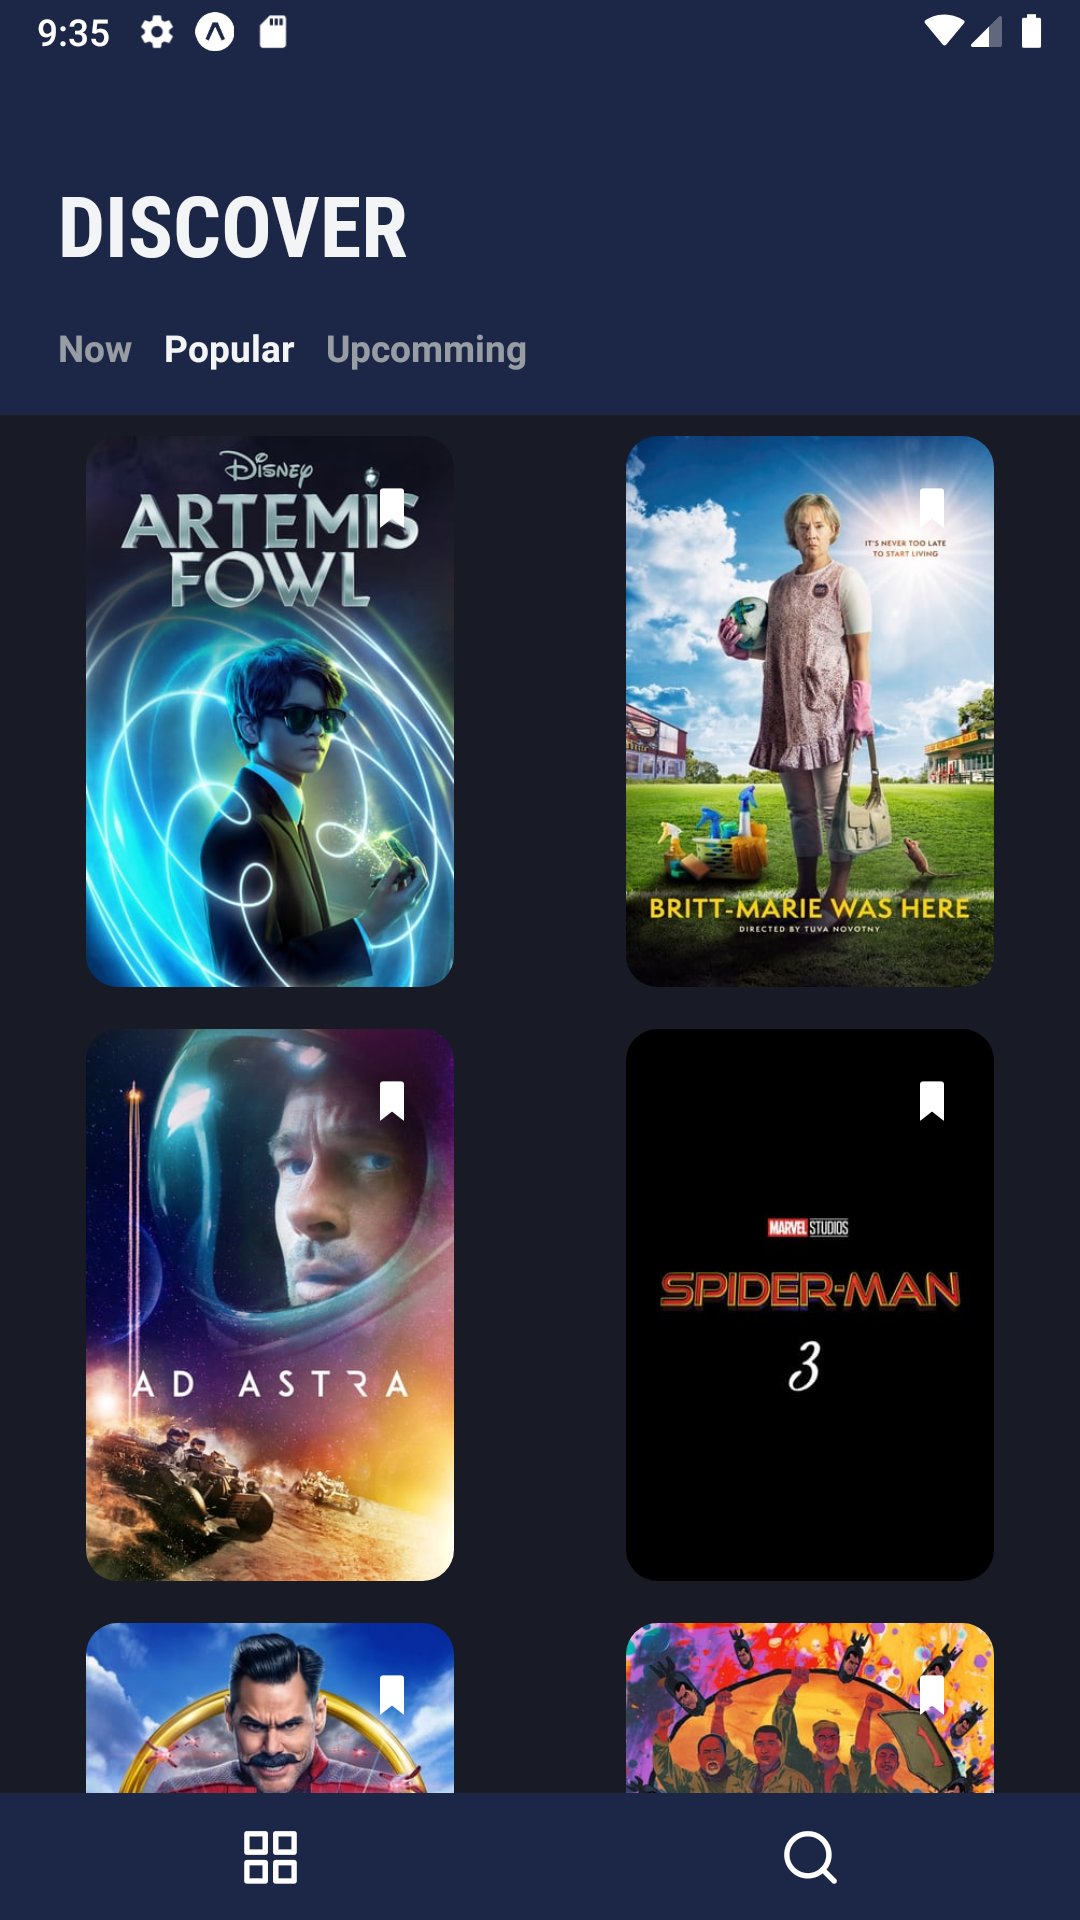
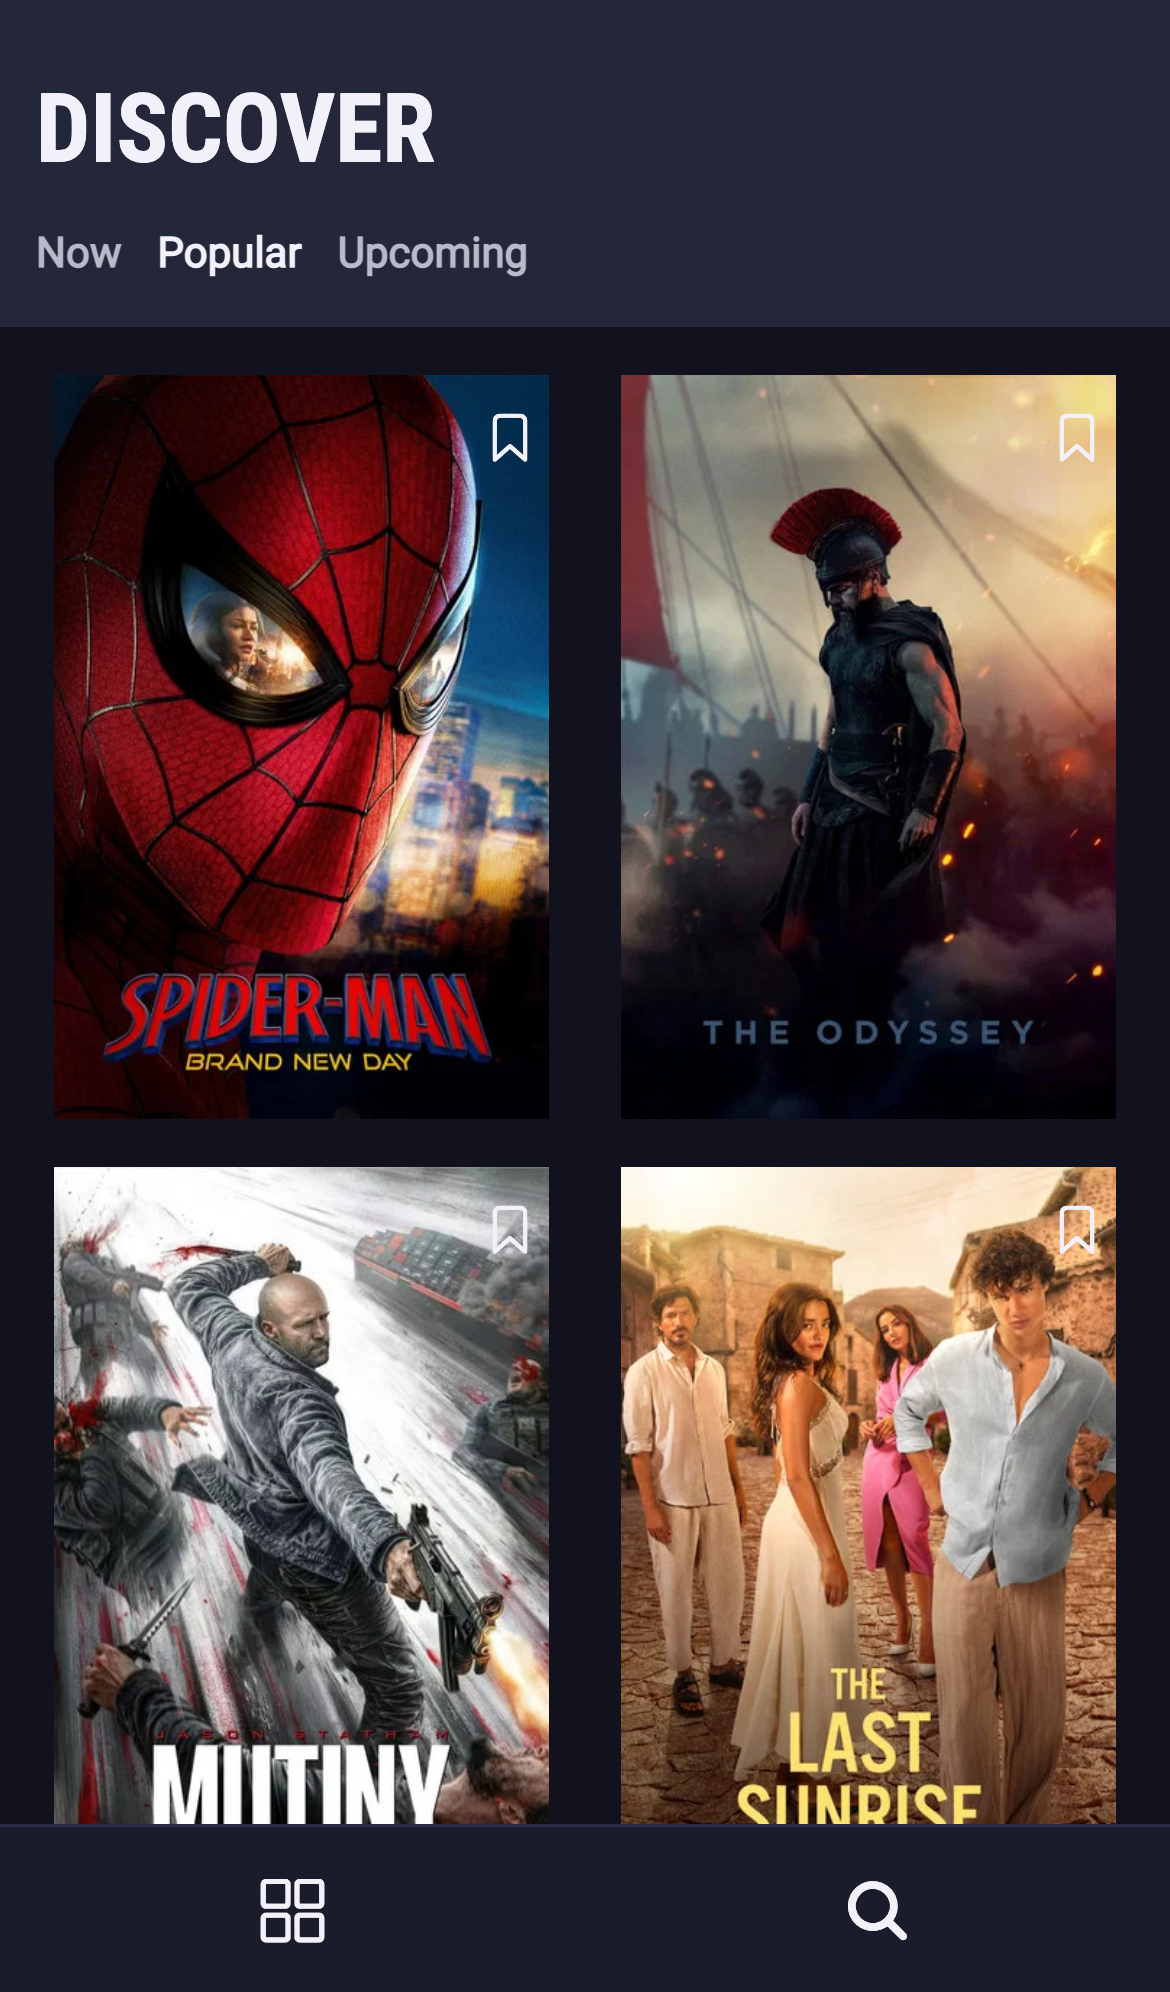
Refresh README assets and add agent/screenshot fixtures
- update README visuals and content polish
- add AGENTS.md collaboration guide
- add live e2e screenshot generation spec and movie details fixture
- refresh showcase screenshots
- include required tsconfig.json update

diff --git a/tests/e2e/readme-screenshots.live.spec.ts b/tests/e2e/readme-screenshots.live.spec.ts
@@ -1,0 +1,64 @@
+import { devices, expect, test, type Page } from "@playwright/test";
+
+const mobilePreset = devices["iPhone 13"];
+const SCREENSHOT_RENDER_DELAY_MS = 1200;
+const SEARCH_SCREENSHOT_READY_TIMEOUT_MS = 10000;
+const SEARCH_SCREENSHOT_FALLBACK_DELAY_MS = 1500;
+
+const waitForScreenshotRender = async (page: Page) => {
+  await page.waitForTimeout(SCREENSHOT_RENDER_DELAY_MS);
+};
+
+const waitForSearchScreenshotReady = async (page: Page) => {
+  const searchResultPosters = page.locator('[data-testid^="movie-poster-"]');
+  const searchResultImages = page.locator('[data-testid^="movie-poster-"] img');
+
+  try {
+    await expect(searchResultPosters.first()).toBeVisible({
+      timeout: SEARCH_SCREENSHOT_READY_TIMEOUT_MS,
+    });
+    await expect(searchResultImages.first()).toBeVisible({
+      timeout: SCREENSHOT_RENDER_DELAY_MS,
+    });
+  } catch {
+    await page.waitForTimeout(SEARCH_SCREENSHOT_FALLBACK_DELAY_MS);
+  }
+
+  await waitForScreenshotRender(page);
+};
+
+test.use({
+  viewport: mobilePreset.viewport,
+  userAgent: mobilePreset.userAgent,
+  deviceScaleFactor: mobilePreset.deviceScaleFactor,
+  isMobile: mobilePreset.isMobile,
+  hasTouch: mobilePreset.hasTouch,
+});
+
+test.describe("README live mobile screenshots", () => {
+  test("captures discover, search, and movie detail screens", async ({ page }) => {
+    await page.goto("/");
+    await expect(page.locator("#root")).toBeVisible({ timeout: 20000 });
+    await expect(page.getByText("DISCOVER", { exact: true })).toBeVisible();
+    const posters = page.locator('[data-testid^="movie-poster-"]');
+    await expect(posters.first()).toBeVisible({ timeout: 30000 });
+
+    await waitForScreenshotRender(page);
+    await page.screenshot({ path: "showcase/screenshot_01.png", fullPage: false });
+
+    await page.getByTestId("footer-search").click();
+    await expect(page.getByText("SEARCH", { exact: true })).toBeVisible();
+    await expect(page.getByPlaceholder("🔍 Search a movie")).toBeVisible();
+
+    await waitForSearchScreenshotReady(page);
+    await page.screenshot({ path: "showcase/screenshot_02.png", fullPage: false });
+
+    await page.goto("/");
+    await expect(posters.first()).toBeVisible({ timeout: 30000 });
+    await posters.first().click();
+    await expect(page.getByTestId("play-trailer-button")).toBeVisible({ timeout: 15000 });
+
+    await waitForScreenshotRender(page);
+    await page.screenshot({ path: "showcase/screenshot_03.png", fullPage: false });
+  });
+});

diff --git a/README.md b/README.md
@@ -1,12 +1,14 @@
-# Cinema Club
+# Cinema Club 🎬✨
 
-> React Native (Expo) Movie App
+> A cozy React Native (Expo) movie app with web support, powered by TMDB.
 
 [![GitHub version](https://badge.fury.io/gh/rodrinac%2Fcinemaclub.svg)](https://badge.fury.io/gh/rodrinac%2Fcinemaclub)
 
-This is a React Native application based on Expo, with web support, using the [TMDB api](https://www.themoviedb.org/).
+Cinema Club keeps movie discovery fun and clean across web + mobile, while routing all TMDB access through a local API layer.
 
-<img src="showcase/screenshot_01.png" width="195" /><img src="showcase/screenshot_02.png" width="195" /><img src="showcase/screenshot_03.png" width="195" />
+## App peek (live mobile captures)
+
+<img src="showcase/screenshot_01.png" width="195" alt="Discover screen" /><img src="showcase/screenshot_02.png" width="195" alt="Search screen" /><img src="showcase/screenshot_03.png" width="195" alt="Movie detail screen" />
 
 ## Installation
 
@@ -14,17 +16,17 @@ This is a React Native application based on Expo, with web support, using the [T
 npm install
 ```
 
-## Dev
+## Development
 
 ```sh
-# Copy .env.template to .env and set TMDB_API_TOKEN first.
+# 1) Copy .env.template to .env and set TMDB_API_TOKEN
 npm run api
 
-# In a second terminal, start Expo and choose web, iOS, or Android.
+# 2) In a second terminal, run Expo (web / iOS / Android)
 npm start
 ```
 
-The Expo app communicates only with the local Movies API; the TMDB bearer token is read by that API from `.env` and is never embedded in the app. On a physical device, set `EXPO_PUBLIC_MOVIES_API_URL` to your computer's LAN address, for example `http://192.168.1.10:3001/api`.
+The Expo app talks only to the local Movies API. The TMDB bearer token is read by that API from `.env` and never embedded in the client app. On a physical device, set `EXPO_PUBLIC_MOVIES_API_URL` to your machine's LAN address, for example `http://192.168.1.10:3001/api`.
 
 ## Movies API
 
@@ -36,9 +38,21 @@ The Expo app communicates only with the local Movies API; the TMDB bearer token 
 - `GET /api/search/movies?query=...`
 - `GET /api/genres`
 
+### Example movie details response
+
+Sample payload: `tests/e2e/fixtures/movie-details.example.json`
+
+## Testing
+
+```sh
+npm run test
+npm run test:e2e:stub
+npm run test:e2e:live
+```
+
 ## Milestones
 
-- [x] Start Page.
+- [x] Start Page
 - [x] Movies Search Page
 - [x] Movie Details Page
 - [x] Splash Screen
@@ -47,7 +61,7 @@ The Expo app communicates only with the local Movies API; the TMDB bearer token 
 - [ ] User lists
 - [ ] i18n
 - [ ] Tests (:D)
-- [ ] ... what more?
+- [ ] ...what more?
 
 ## Release History
 

diff --git a/AGENTS.md b/AGENTS.md
@@ -1,0 +1,32 @@
+# AGENTS
+
+Quick guidance for contributors/agents.
+
+## Quick start
+
+```sh
+npm install
+npm run api
+npm start
+npm run build:web
+```
+
+## Tests
+
+```sh
+npm run test
+npm run test:e2e:stub
+npm run test:e2e:live
+```
+
+## Refresh README screenshots (live mobile)
+
+```sh
+npm run build:web
+npm run test:e2e:live -- tests/e2e/readme-screenshots.live.spec.ts
+```
+
+## Conventions
+
+- Update `showcase/screenshot_01.png`, `showcase/screenshot_02.png`, and `showcase/screenshot_03.png` using Playwright capture only (no manual image edits).
+- Keep the movie-details sample payload in `tests/e2e/fixtures/movie-details.example.json` as the canonical example for docs/tests.
